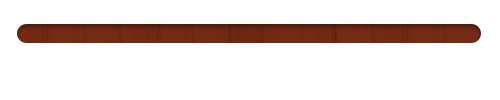
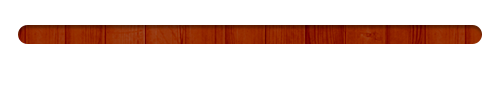
Изменение дизайна таймлайн

Changed region(s): [[0.03, 0.24, 0.99, 0.45]]

diff --git a/InteractiveTable/Pages/Timeline.xaml b/InteractiveTable/Pages/Timeline.xaml
@@ -9,7 +9,7 @@
     <Grid UseLayoutRounding="True">
         <Grid.RowDefinitions>
             <RowDefinition Height="720"/>
-            <RowDefinition/>
+            <RowDefinition Height="180"/>
         </Grid.RowDefinitions>
 
         <ScrollViewer x:Name="scrollViewer" HorizontalScrollBarVisibility="Hidden" VerticalScrollBarVisibility="Disabled">
@@ -34,7 +34,7 @@
                     Padding="20,0" Content="/InteractiveTable;component/Images/Timeline/1856.png" Canvas.Left="1187" Canvas.Top="138"/>
 
                 <!--Кружочки и пути-->
-                <Path Stroke="Red" StrokeThickness="5">
+                <Path Stroke="#FFCF142B" StrokeThickness="6">
                     <Path.Data>
                         <PathGeometry>
                             <PathFigure StartPoint="83,77">
@@ -74,7 +74,7 @@
                         </PathGeometry>
                     </Path.Data>
                 </Path>
-                <Path Fill="Red">
+                <Path Fill="#FFCF142B">
                     <Path.Data>
                         <GeometryGroup>
                             <EllipseGeometry RadiusX="8" RadiusY="8" Center="85,76"/>
@@ -94,6 +94,6 @@
 
         <Button x:Name="back_button" Template="{DynamicResource BackButtonTemplate}" Click="Back_Button_Click" Grid.Row="1" HorizontalAlignment="Left" VerticalAlignment="Top" Margin="60,75,0,0"/>
 
-        <local:BindableScrollBar BoundScrollViewer ="{Binding ElementName=scrollViewer}" Orientation="Horizontal" Grid.Row="1" Style="{DynamicResource TimelineScrollBarStyle}"/>
+        <local:BindableScrollBar BoundScrollViewer ="{Binding ElementName=scrollViewer}" Orientation="Horizontal" Grid.Row="1" Style="{DynamicResource TimelineScrollBarStyle}" Margin="0,65,0,0" VerticalAlignment="Top"/>
     </Grid>
 </Page>
